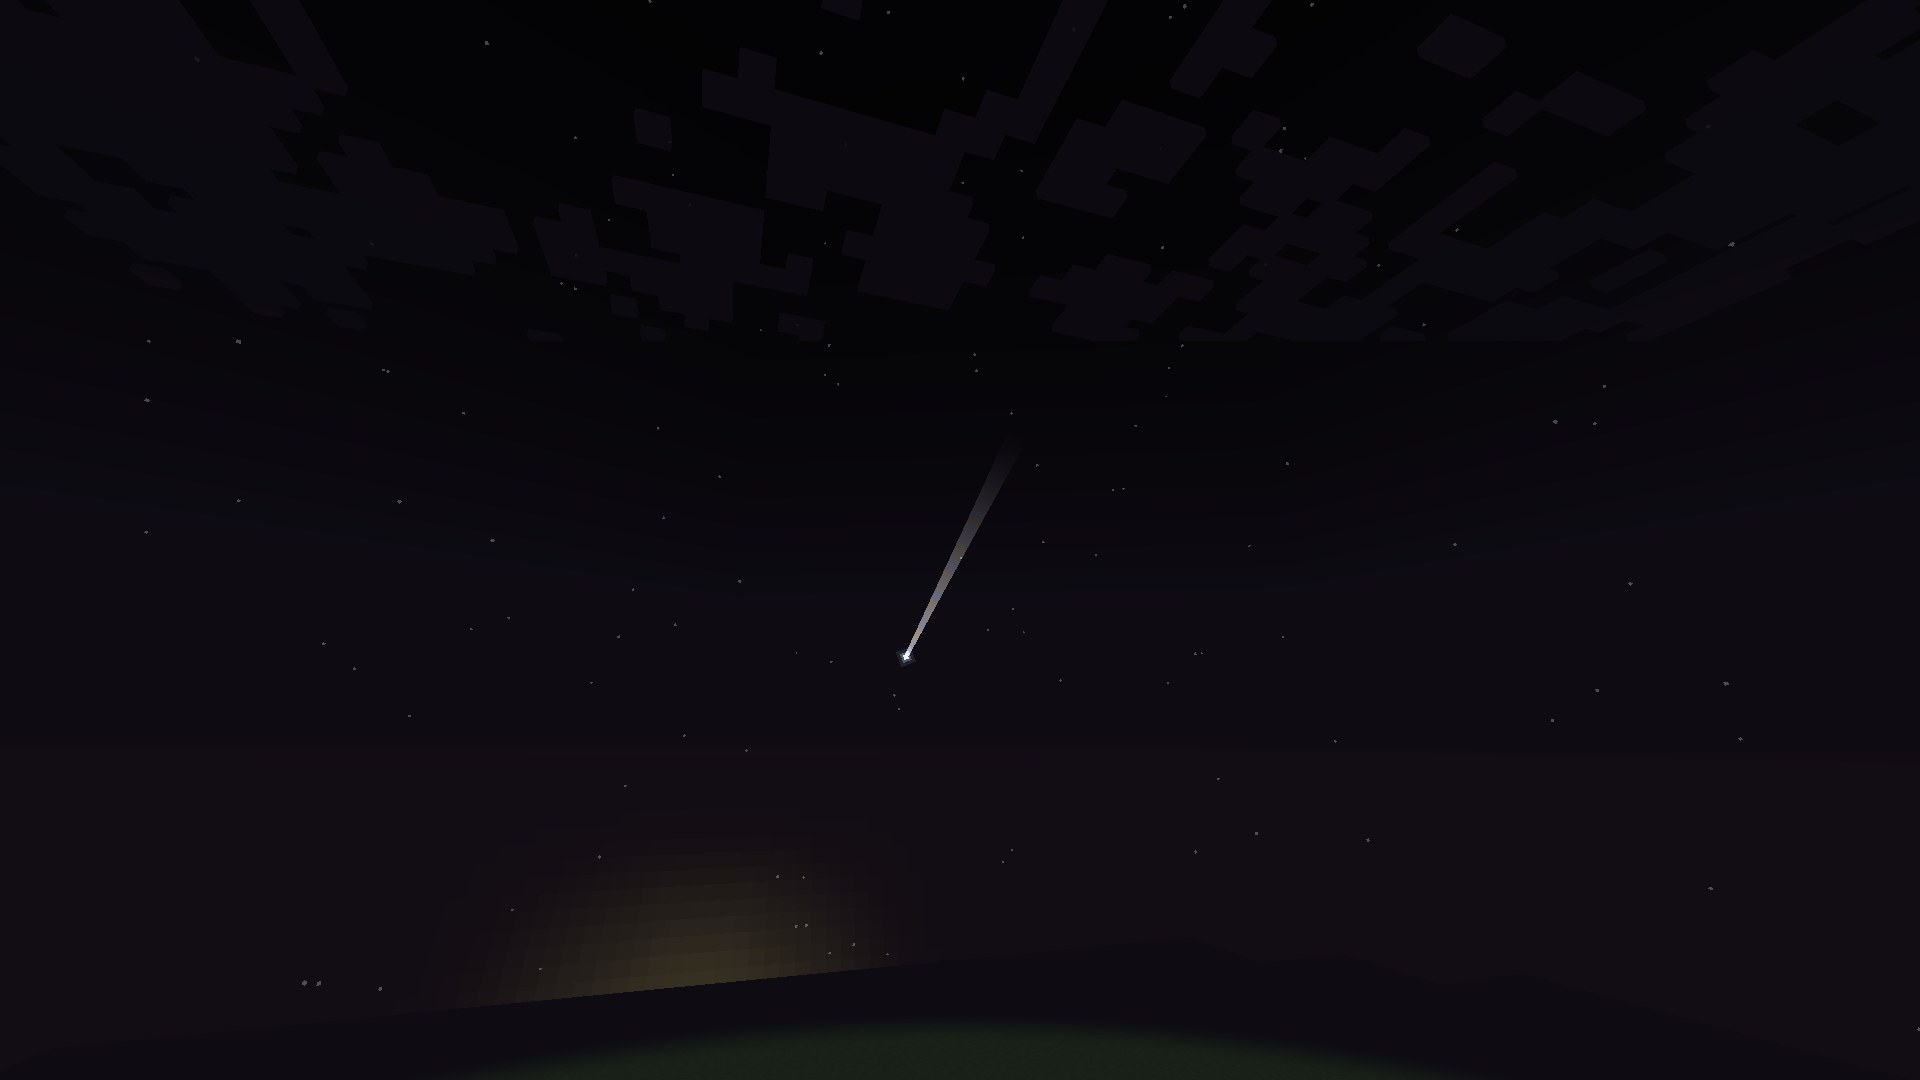
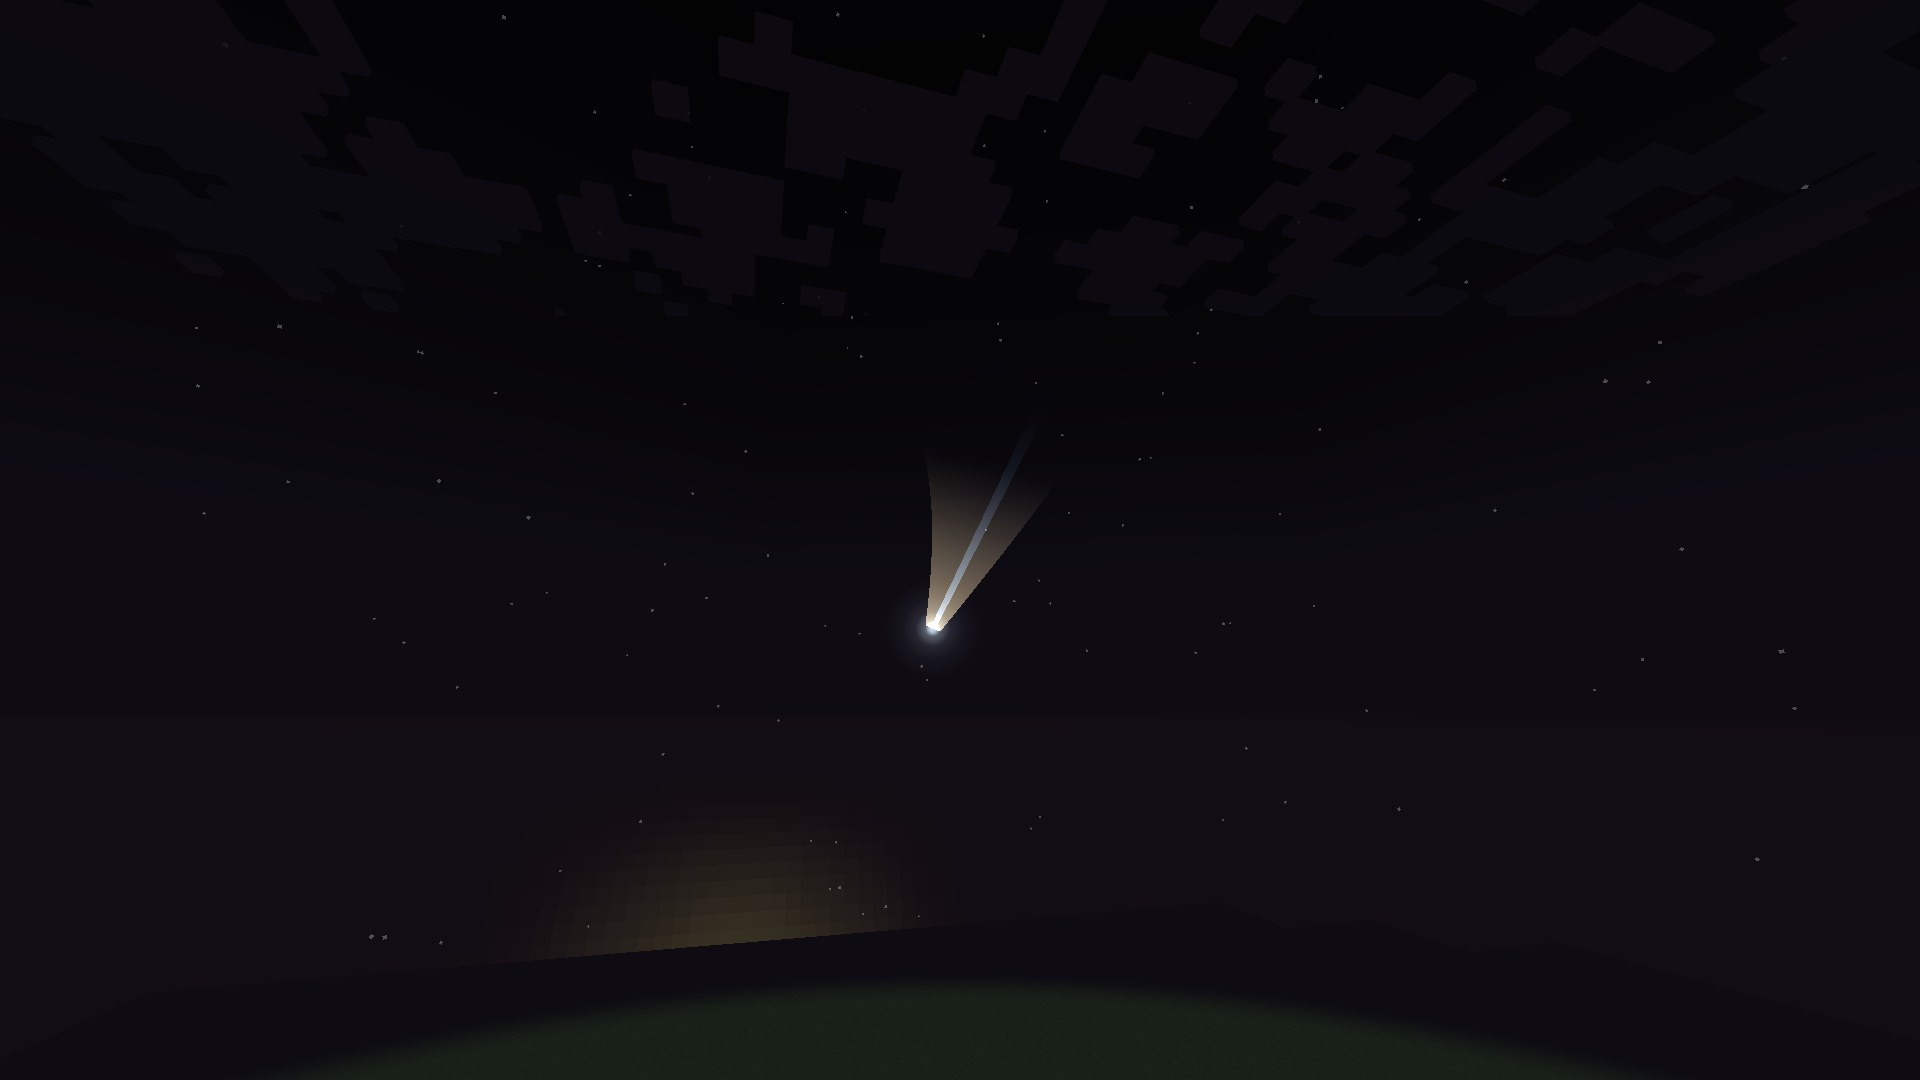
Comets: soft round coma, curved dust tail and straight ion tail
The coma is a round glow with a bright core and a long smooth falloff (rings of
additive quads). Each comet now has two tails: a broad, fanning, yellowish dust
tail that curves back along the orbit, and a narrow, straight, bluish ion tail
pointing exactly away from the sun. Active comets get shorter, fainter tails than
great ones; brightness still falls off with distance; recomputed every 100 ticks
as before. Showcase: Halley 2061 at dusk and high in a dark night.

Changed region(s): [[0.4688, 0.4583, 0.5312, 0.6111], [0.2812, 0.8556, 0.4375, 0.9167]]

diff --git a/src/main/java/com/pizzaparker07/spacebreaker/client/sky/CometTrails.java b/src/main/java/com/pizzaparker07/spacebreaker/client/sky/CometTrails.java
@@ -21,7 +21,8 @@ import org.joml.Vector3f;
 import java.util.List;
 
 /**
- * Active comets in the night sky: a soft glowing head and a fading tail pointing away from the sun (additive quads in
+ * Active comets in the night sky: a soft glowing coma, a broad curved yellowish dust tail and a straight blue ion tail
+ * pointing away from the sun (additive quads in
  * the sky pass, no textures, so they show the same with shader packs). Positions come from {@link CometPoints}, cached
  * for a few seconds since comets crawl across the sky.
  */
@@ -49,19 +50,11 @@ public final class CometTrails {
         BufferBuilder bb = Tesselator.getInstance().begin(VertexFormat.Mode.QUADS, DefaultVertexFormat.POSITION_COLOR);
         for (CometPoints.Sighting s : sightings) {
             float a = s.alpha() * visibility;
-            tail(bb, m, s, a);
-            Vector3f c = new Vector3f(s.head()).mul(100F);
-            Quaternionf q = new Quaternionf().rotateTo(new Vector3f(0, 0, -1), s.head());
-            // glow: three nested squares, faint and wide to bright and small
-            float[][] rings = {{3.2F, 0.10F}, {1.9F, 0.25F}, {1.0F, 0.7F}, {0.45F, 1.0F}};
-            for (float[] ring : rings) {
-                float r = s.headSize() * ring[0];
-                float k = a * ring[1];
-                for (float[] corner : new float[][]{{r, -r}, {r, r}, {-r, r}, {-r, -r}}) {
-                    Vector3f p = new Vector3f(corner[0], corner[1], 0).rotate(q).add(c);
-                    bb.addVertex(m, p.x, p.y, p.z).setColor(0.82F * k, 0.92F * k, 1.0F * k, 1F);
-                }
-            }
+            // dust tail: broad, fanning out, curved back along the orbit, yellow-white
+            strip(bb, m, s.head(), s.dustMid(), s.dustTip(), s.headSize() * 0.9F, s.headSize() * 8F, a * 0.6F, 1F, 0.9F, 0.68F, 14);
+            // ion tail: narrow, straight, bluish, exactly away from the sun
+            strip(bb, m, s.head(), null, s.tip(), s.headSize() * 0.3F, s.headSize() * 0.7F, a * 0.5F, 0.5F, 0.72F, 1F, 10);
+            coma(bb, m, s.head(), s.headSize(), a);
         }
         var mesh = bb.build();
         if (mesh != null) {
@@ -71,34 +64,72 @@ public final class CometTrails {
         RenderSystem.defaultBlendFunc();
     }
 
-    /** The tail: a strip from the head to the tip, widening and fading, a little warmer (dust) toward its end. */
-    private static void tail(BufferBuilder bb, Matrix4f m, CometPoints.Sighting s, float a) {
-        Vector3f head = new Vector3f(s.head()).mul(100F);
-        Vector3f tip = new Vector3f(s.tip()).mul(100F);
+    /** The coma: a round glow, bright in the core and fading smoothly to nothing (rings of quads, 20 sectors). */
+    private static void coma(BufferBuilder bb, Matrix4f m, Vector3f headDir, float size, float a) {
+        Vector3f c = new Vector3f(headDir).mul(100F);
+        Quaternionf q = new Quaternionf().rotateTo(new Vector3f(0, 0, -1), headDir);
+        // radius (in coma sizes) and brightness at each ring: a hot core, then a long soft falloff
+        float[][] rings = {{0F, 1.0F}, {0.35F, 0.85F}, {0.9F, 0.35F}, {2.0F, 0.12F}, {3.6F, 0.04F}, {5.5F, 0F}};
+        int sectors = 20;
+        for (int i = 0; i + 1 < rings.length; i++) {
+            float r0 = rings[i][0] * size;
+            float r1 = rings[i + 1][0] * size;
+            float k0 = rings[i][1] * a;
+            float k1 = rings[i + 1][1] * a;
+            for (int j = 0; j < sectors; j++) {
+                double t0 = j * Math.PI * 2 / sectors;
+                double t1 = (j + 1) * Math.PI * 2 / sectors;
+                Vector3f p00 = ring(c, q, r0, t0);
+                Vector3f p01 = ring(c, q, r0, t1);
+                Vector3f p11 = ring(c, q, r1, t1);
+                Vector3f p10 = ring(c, q, r1, t0);
+                bb.addVertex(m, p00.x, p00.y, p00.z).setColor(0.88F * k0, 0.96F * k0, k0, 1F);
+                bb.addVertex(m, p01.x, p01.y, p01.z).setColor(0.88F * k0, 0.96F * k0, k0, 1F);
+                bb.addVertex(m, p11.x, p11.y, p11.z).setColor(0.8F * k1, 0.92F * k1, k1, 1F);
+                bb.addVertex(m, p10.x, p10.y, p10.z).setColor(0.8F * k1, 0.92F * k1, k1, 1F);
+            }
+        }
+    }
+
+    private static Vector3f ring(Vector3f centre, Quaternionf q, float r, double angle) {
+        return new Vector3f((float) (Math.cos(angle) * r), (float) (Math.sin(angle) * r), 0).rotate(q).add(centre);
+    }
+
+    /**
+     * A tail strip from the head along a quadratic curve (or a straight line when {@code mid} is null) to the tip,
+     * widening from {@code w0} to {@code w1} and fading to nothing.
+     */
+    private static void strip(BufferBuilder bb, Matrix4f m, Vector3f headDir, Vector3f midDir, Vector3f tipDir, float w0, float w1,
+                              float a, float red, float green, float blue, int steps) {
+        Vector3f head = new Vector3f(headDir).mul(100F);
+        Vector3f tip = new Vector3f(tipDir).mul(100F);
         if (head.distance(tip) < 0.5F) {
             return;
         }
-        int steps = 8;
+        Vector3f mid = midDir == null ? new Vector3f(head).add(tip).mul(0.5F) : new Vector3f(midDir).mul(100F);
         Vector3f prevL = null;
         Vector3f prevR = null;
         float prevK = 0;
+        Vector3f prevP = head;
         for (int i = 0; i <= steps; i++) {
             float f = i / (float) steps;
-            Vector3f p = new Vector3f(head).lerp(tip, f).normalize().mul(100F);
-            Vector3f along = new Vector3f(tip).sub(head);
-            Vector3f side = new Vector3f(along).cross(p).normalize().mul(s.headSize() * (0.8F + 3.5F * f));
+            float u = 1 - f;
+            Vector3f p = new Vector3f(head).mul(u * u).add(new Vector3f(mid).mul(2 * u * f)).add(new Vector3f(tip).mul(f * f)).normalize().mul(100F);
+            Vector3f along = i == 0 ? new Vector3f(mid).sub(head) : new Vector3f(p).sub(prevP);
+            Vector3f side = new Vector3f(along).cross(p).normalize().mul(w0 + (w1 - w0) * f);
             Vector3f l = new Vector3f(p).add(side);
             Vector3f r = new Vector3f(p).sub(side);
-            float k = a * 0.7F * (1 - f) * (float) Math.sqrt(1 - f);
+            float k = a * u * (float) Math.sqrt(u);
             if (prevL != null) {
-                bb.addVertex(m, prevL.x, prevL.y, prevL.z).setColor(0.85F * prevK, 0.9F * prevK, 1F * prevK, 1F);
-                bb.addVertex(m, prevR.x, prevR.y, prevR.z).setColor(0.85F * prevK, 0.9F * prevK, 1F * prevK, 1F);
-                bb.addVertex(m, r.x, r.y, r.z).setColor(1F * k, 0.92F * k, 0.75F * k, 1F);
-                bb.addVertex(m, l.x, l.y, l.z).setColor(1F * k, 0.92F * k, 0.75F * k, 1F);
+                bb.addVertex(m, prevL.x, prevL.y, prevL.z).setColor(red * prevK, green * prevK, blue * prevK, 1F);
+                bb.addVertex(m, prevR.x, prevR.y, prevR.z).setColor(red * prevK, green * prevK, blue * prevK, 1F);
+                bb.addVertex(m, r.x, r.y, r.z).setColor(red * k, green * k, blue * k, 1F);
+                bb.addVertex(m, l.x, l.y, l.z).setColor(red * k, green * k, blue * k, 1F);
             }
             prevL = l;
             prevR = r;
             prevK = k;
+            prevP = p;
         }
     }
 

diff --git a/src/testmod/java/com/pizzaparker07/spacebreaker/testmod/showcase/SkyPlanetsScenario.java b/src/testmod/java/com/pizzaparker07/spacebreaker/testmod/showcase/SkyPlanetsScenario.java
@@ -96,32 +96,50 @@ final class SkyPlanetsScenario implements ShowcaseScenario {
         return shots;
     }
 
-    /** Halley's 2061 return over Earth: the date its tail looks longest (away from the sun's glare), then the darkest moment it is up. */
+    /**
+     * Halley's 2061 return over Earth: one shot at the date its tails look longest (low in the dusk), one at the date it
+     * stands well away from the sun with its tails still long, high in a dark night.
+     */
     private static void cometShot(ServerLevel level, double y, List<ShowcaseDriver.Shot> shots) {
         var sys = BodyAdapter.system(level.registryAccess()).orElseThrow();
         var halley = com.pizzaparker07.spacebreaker.core.astro.smallbody.Comet.HALLEY;
         double peri = halley.nextPerihelion(0);
-        double bestT = 0;
-        com.pizzaparker07.spacebreaker.content.worldgen.CometPoints.Sighting best = null;
-        for (int day = -80; day <= 80; day += 2) {
+        double longT = 0;
+        double farT = 0;
+        com.pizzaparker07.spacebreaker.content.worldgen.CometPoints.Sighting longest = null;
+        com.pizzaparker07.spacebreaker.content.worldgen.CometPoints.Sighting farthest = null;
+        for (int day = -90; day <= 90; day += 2) {
             double t = peri + day * 86400.0;
             for (var s : com.pizzaparker07.spacebreaker.content.worldgen.CometPoints.compute(sys, "spacebreaker:earth", t)) {
-                if (s.id().equals(halley.id()) && s.great() && s.head().y < 0.85F && (best == null || s.head().angle(s.tip()) > best.head().angle(best.tip()))) {
-                    best = s;
-                    bestT = t;
+                if (!s.id().equals(halley.id()) || !s.great()) {
+                    continue;
+                }
+                if (s.head().y < 0.85F && (longest == null || s.head().angle(s.dustTip()) > longest.head().angle(longest.dustTip()))) {
+                    longest = s;
+                    longT = t;
+                }
+                if (s.head().y < 0.72F && (farthest == null || s.head().angle(s.dustTip()) > farthest.head().angle(farthest.dustTip()))) {
+                    farthest = s;
+                    farT = t;
                 }
             }
         }
-        if (best == null) {
+        add(shots, "03_earth_halley_2061", longest, longT, y, -0.15, 8, 35);
+        add(shots, "04_earth_halley_2061_night", farthest, farT, y, -0.3, 10, 60);
+    }
+
+    private static void add(List<ShowcaseDriver.Shot> shots, String name, com.pizzaparker07.spacebreaker.content.worldgen.CometPoints.Sighting s,
+                            double t, double y, double maxSun, double minAlt, double maxAlt) {
+        if (s == null) {
             return;
         }
         double fraction = -1;
         double darkest = 2;
         for (int i = 0; i < 400; i++) {
             double f = i / 400.0;
-            double alt = Math.toDegrees(Math.asin(world(best.head(), f).y));
+            double alt = Math.toDegrees(Math.asin(world(s.head(), f).y));
             double sun = world(new Vector3f(0, 1, 0), f).y;
-            if (alt > 8 && alt < 35 && sun < -0.15 && sun < darkest) {
+            if (alt > minAlt && alt < maxAlt && sun < maxSun && sun < darkest) {
                 darkest = sun;
                 fraction = f;
             }
@@ -129,14 +147,14 @@ final class SkyPlanetsScenario implements ShowcaseScenario {
         if (fraction < 0) {
             return;
         }
-        Vector3f dir = world(best.head(), fraction);
-        Vector3f tip = world(best.tip(), fraction);
+        Vector3f dir = world(s.head(), fraction);
+        Vector3f tip = world(s.dustTip(), fraction);
         Vector3f mid = new Vector3f(dir).add(tip).normalize();
         float yaw = (float) Math.toDegrees(Math.atan2(-mid.x, mid.z));
         float pitch = (float) -Math.toDegrees(Math.asin(mid.y));
-        long ticks = com.pizzaparker07.spacebreaker.core.astro.GameClock.ticks(bestT, BodyAdapter.timeScale());
+        long ticks = com.pizzaparker07.spacebreaker.core.astro.GameClock.ticks(t, BodyAdapter.timeScale());
         long dayTime = Math.round(fraction * 24000);
-        shots.add(new ShowcaseDriver.Shot("03_earth_halley_2061", dayTime, 0.5, y, 0.5, yaw, pitch, true, CameraType.FIRST_PERSON, 160,
+        shots.add(new ShowcaseDriver.Shot(name, dayTime, 0.5, y, 0.5, yaw, pitch, true, CameraType.FIRST_PERSON, 160,
                 p -> ((net.minecraft.world.level.storage.ServerLevelData) p.server.getWorldData().overworldData()).setGameTime(ticks), null));
     }
 }

diff --git a/src/main/java/com/pizzaparker07/spacebreaker/content/worldgen/CometPoints.java b/src/main/java/com/pizzaparker07/spacebreaker/content/worldgen/CometPoints.java
@@ -12,13 +12,19 @@ import java.util.List;
 
 /**
  * Active comets in another world's (or Earth's) sky, in the same sun frame as {@link PlanetPoints}: a glowing head
- * where the comet is and a tail toward where its tail ends, which always points away from the sun. Only comets the
+ * where the comet is, a straight blue ion tail pointing exactly away from the sun and a broad, curved, yellowish
+ * dust tail that lags behind along the orbit. Only comets the
  * astro activity model calls ACTIVE or GREAT are shown; GREAT ones are bright. Pure maths; drawn by client/sky.
  */
 public final class CometPoints {
     /** A comet in the sky: head and tail tip directions in the sun frame, head radius (sky units at 100 m), brightness. */
-    public record Sighting(String id, String nameEn, String nameTr, Vector3f head, Vector3f tip, float headSize, float alpha,
-                           CometActivity.Level level) {
+    /**
+     * @param tip     end of the straight blue ion (gas) tail, exactly away from the sun
+     * @param dustMid control point of the curved dust tail (it lags behind along the orbit)
+     * @param dustTip end of the dust tail
+     */
+    public record Sighting(String id, String nameEn, String nameTr, Vector3f head, Vector3f tip, Vector3f dustMid, Vector3f dustTip,
+                           float headSize, float alpha, CometActivity.Level level) {
         public boolean great() {
             return level == CometActivity.Level.GREAT;
         }
@@ -49,14 +55,23 @@ public final class CometPoints {
             Vec3 pos = c.position(t);
             Vec3 rel = pos.sub(obs);
             double d = rel.length();
-            Vec3 tipPos = pos.add(a.tailDirection().normalize().scale(a.tailLengthKm() * 1000));
+            boolean great = a.level() == CometActivity.Level.GREAT;
+            double tail = a.tailLengthKm() * 1000 * (great ? 1.0 : 0.5);
+            Vec3 away = a.tailDirection().normalize();
+            // the dust tail curves back along the orbit: grains leave slowly and fall behind the nucleus
+            Vec3 motion = c.position(t + 86400).sub(c.position(t - 86400)).normalize();
+            Vec3 dustTipPos = pos.add(away.scale(tail * 0.7)).sub(motion.scale(tail * 0.45));
+            Vec3 dustMidPos = pos.add(away.scale(tail * 0.45)).sub(motion.scale(tail * 0.1));
+            Vec3 ionTipPos = pos.add(away.scale(tail));
             Vector3f head = b.local(rel);
-            Vector3f tip = b.local(tipPos.sub(obs));
-            // apparent head radius, at the 100-block sky sphere; at least a few pixels, at most a few degrees
-            float size = (float) Mth.clamp(100 * a.comaRadiusKm() * 1000 / d, 0.35, 4.0);
+            Vector3f tip = b.local(ionTipPos.sub(obs));
+            Vector3f dustMid = b.local(dustMidPos.sub(obs));
+            Vector3f dustTip = b.local(dustTipPos.sub(obs));
+            // apparent coma radius at the 100-block sky sphere: a clear halo for great comets, a small smudge otherwise
+            float size = (float) Mth.clamp(100 * a.comaRadiusKm() * 1000 / d, great ? 1.3 : 0.45, great ? 4.0 : 1.5);
             double au = d / 1.495978707e11;
-            float alpha = (float) Mth.clamp((a.level() == CometActivity.Level.GREAT ? 0.95 : 0.4) * Math.min(1.0, 1.2 / Math.max(0.05, au)), 0.12, 1.0);
-            out.add(new Sighting(c.id(), c.nameEn(), c.nameTr(), head, tip, size, alpha, a.level()));
+            float alpha = (float) Mth.clamp((great ? 0.95 : 0.4) * Math.min(1.0, 1.2 / Math.max(0.05, au)), 0.12, 1.0);
+            out.add(new Sighting(c.id(), c.nameEn(), c.nameTr(), head, tip, dustMid, dustTip, size, alpha, a.level()));
         }
         return out;
     }

diff --git a/docs/CONTENT.md b/docs/CONTENT.md
@@ -92,7 +92,7 @@ Her içerik paketi gerçek istemcide vitrin dünyasında fotoğraflanır; onayda
 | 🎨 | Soğuk tuzaklar (kalıcı gölgeli kutup kraterleri) | taban ve 8 blok üstü güneş görmez: gece sıcaklığının 60 °C altında, gündüz de (Ay'da ≈ −233 °C); 1. kademe giysi yetmez, ısıtmalı giysi (veya yeterli termal modül) gerekir; girişte eylem çubuğu uyarısı; buz → ISRU su/H₂/O₂; buzlu kutbu olan her gezegende (Merkür dahil) |
 | 🎨 | Yeraltı sığınağı (havasız dünyalar) | yüzeyin ≥4 blok altında ve gökyüzünü görmeyen yerde gece-gündüz sabit sıcaklık = gündüz/gece ortalaması (Ay ≈ −26 °C, yüzeyde +120/−173 °C yerine); üstteki kaya radyasyonu da keser → lav tüpleri ve kazılmış üsler doğal sığınak |
 | 🎨 | Mikrometeorit yağmurları (havasız dünyalar) | ara sıra (ortalama 60 dk'da bir, 40 sn sürer; sunucu ayarı `micrometeorites`: kapatılabilir, aralık/süre): 1 dk önce eylem çubuğunda uyarı, gökyüzünde parlak çizgiler, yerde toz patlamaları; açıkta kalan oyuncuya yarım kalp hasar ve giysi parçası aşınması; üstte herhangi bir çatı (modül, kulübe, mağara, lav tüpü) korur; `/spacebreaker meteorshower` |
-| 🎨 | Kuyruklu yıldızlar gökyüzünde (her dünyadan) | astro etkinlik modeline göre yalnız ETKİN/BÜYÜK iken: parlak koma + güneşin tersine solan kuyruk (gökyüzü geçişi, shader güvenli); büyük kuyruklu yıldız (ör. Halley 2061) görününce görev kontrol mesajı (EN/TR); vitrin `sky_planets` 03_earth_halley_2061 |
+| 🎨 | Kuyruklu yıldızlar gökyüzünde (her dünyadan) | astro etkinlik modeline göre yalnız ETKİN/BÜYÜK iken: parlak koma + güneşin tersine solan kuyruk (gökyüzü geçişi, shader güvenli); büyük kuyruklu yıldız (ör. Halley 2061) görününce görev kontrol mesajı (EN/TR); vitrin `sky_planets` 03_earth_halley_2061 (alacakaranlık) + 04_earth_halley_2061_night (karanlık gece); geniş kavisli sarımsı toz kuyruğu + düz mavimsi iyon kuyruğu, yumuşak koma |
 | 🎨 | Gök cismi zamanı | gün uzunluğu gerçek değerden ölçeklenir (ayar), her boyutun kendi saati; `/spacebreaker localtime` |
 | 🎨 | Vakum gökyüzü | siyah gök, yoğun yıldız alanı + Samanyolu, mesafeye göre boyutlanan keskin Güneş, Ay'da sabit duran ve **doğru evresiyle** dönen Dünya; gece Dünya ışığı; bulut/yağmur/pus yok |
 
